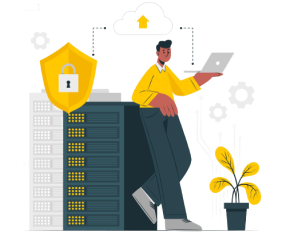
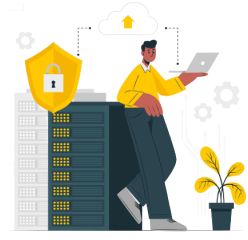
changes to dashboard

diff --git a/client/src/Pages/Dashboard/General/WelcomeBar/components/Welcome.module.css b/client/src/Pages/Dashboard/General/WelcomeBar/components/Welcome.module.css
@@ -1,20 +1,16 @@
 /* This CSS will be applied to all screen sizes */
 .headerSection{
-    background: rgb(221,210,188);
     background: linear-gradient(0deg, rgba(221,210,188,1) 0%, rgba(153,138,71,1) 100%, rgba(0,0,0,0.7344187675070029) 100%);
-    width: 70%;
-    height: 20%;
-    position: fixed;
-    bottom: 67vh;
-    left: 5vw;
+    display: flex;
+    width: clamp(70vw,70vw,70vw);
+    padding: 2.5vh 0;
     border-radius: 0.8rem;
+    margin: 8vh 0 0 4.5vw;
+    position: relative;
+    justify-content: center;
 }
 
-.title{
-    position: relative;
-    margin-left: 20vw;
-    margin-top: 3vh;
-}
+
 
 .head{
     font-size: 2.2rem;
@@ -29,16 +25,16 @@
 }
 
 .cardSection{
-    position: relative;
-    margin-left: 4vw;
-    margin-top: 3vh;
+    position: absolute;
+    top: -6vh;
+    left: 2vw;
 }
 
 .cardSection .img {
-    width: 13vw;
+    width: 185px;
 }
 
-/* Media queries to adjust styles for smaller screen sizes */
+/* Media queries to adjust styles for smaller screen sizes
 @media (max-width: 768px) {
     .headerSection {
         width: 90%;
@@ -86,5 +82,14 @@
     }
     .cardSection .img {
         width: 30vw;
+    }
+} */
+
+@media (max-width: 1000px) {
+    .headerSection{
+        justify-content: flex-end;
+    }
+    .title{
+        margin: 0 1vw 0 0;
     }
 }

diff --git a/client/src/Pages/Dashboard/General/WelcomeBar/WelcomeBar.jsx b/client/src/Pages/Dashboard/General/WelcomeBar/WelcomeBar.jsx
@@ -3,19 +3,16 @@ import style from './components/Welcome.module.css'
 import image from '../../../../Assets/Images/Banner-Image.png'
 const WelcomeBar = () => {
     return (
-        <div className={style.topSection}>
             <div className={style.headerSection}>
+                <div className={style.cardSection}>
+                    <img src={image} className={style.img} alt='f'></img>
+                </div>
                 <div className={style.title}>
                     <p className={style.para}>Hi Malithi Abayadeera</p>
                     <h1 className={style.head}>Welcome to EXOTEL</h1>
-</div>
+                 </div>
                 </div>
 
-                <div className={style.cardSection}>
-                    <img src={image} className={style.img} alt='f'></img>
-
-                </div>
-            </div>
       
     )
 }

diff --git a/server/routes/Admin.js b/server/routes/Admin.js
@@ -5,7 +5,12 @@ const { Rooms, Promotion, Users } = require('../models');
 router.get('/todayStats', async (req, res) => {
   try {
     const availableRooms = await Rooms.count();
-    const availablePromos = await Promotion.count();
+    // const availablePromos = await Promotion.count();
+    const availablePromos = await Promotion.count({
+      where: {
+        Status: 'Active'
+      }
+    });
     const availableUsers = await Users.count();
 
     res.status(200).json({

diff --git a/client/src/Pages/Dashboard/General/Common.module.css b/client/src/Pages/Dashboard/General/Common.module.css
@@ -12,7 +12,7 @@
     display: flex;
     flex-direction: column;
     width: 30%;
-    padding: 0 10px;
+    /* padding: 0 10px; */
    
   }
   
@@ -20,8 +20,8 @@
     display: flex;
     flex-direction: column;
     width: 70%;
-    padding: 0 5px;
-   
+    /* padding: 0 5px;
+    */
   }
   
   .otherCont{

diff --git a/client/src/Pages/Dashboard/General/Calendar/Cal.jsx b/client/src/Pages/Dashboard/General/Calendar/Cal.jsx
@@ -10,7 +10,7 @@ function Cal() {
   return (
     <div className={style.container}>
     <div className={style.title}>
-        <h3>Calendar</h3>
+        {/* <h3>Calendar</h3> */}
     </div>
       <Calendar 
         onChange={onChange} 

diff --git a/client/src/Pages/Dashboard/General/Common.jsx b/client/src/Pages/Dashboard/General/Common.jsx
@@ -14,9 +14,9 @@ const Common = (props) => {
      </div>
     </div>
     <div className={style.RightPanel}>
-      <NotificationBox />
+      {/* <NotificationBox />
       
-      <Cal />
+      <Cal /> */}
 
     </div>
   </div>
